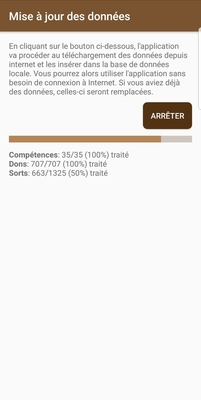
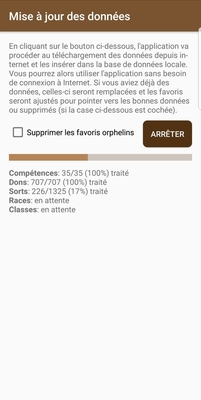
Update screenshots for version 2.0

Changed region(s): [[0.0299, 0.09, 0.9851, 0.54]]

diff --git a/docs/user/README.md b/docs/user/README.md
@@ -26,9 +26,10 @@ navigation latérale permettra d'accéder aux différentes rubriques (compétenc
 
 * Cliquer sur une rubrique pour obtenir la liste des éléments correspondants
 * Cliquer sur un élément pour obtenir sa description
-  * Le bouton _plus/moins_ (en bas à droite) permet d'afficher les détails (attributs/métadonnées)
-  * Le bouton _étoile_ (en haut à droite) permet de mettre l'élément dans la liste des favoris
-  * Le bouton _lien_ (en bas à gauche), visible uniquement en mode "détails" ouvre un navigateur vers la fiche [pathfinder-fr.org](https://www.pathfinder-fr.org) correspondante.
+  * Les détails (métadonnées) sont affichés par défaut mais il est possible de les désactiver dans les préférence de l'application.
+  * Le bouton _lien_ (barre d'action) ouvre un navigateur vers la fiche [pathfinder-fr.org](https://www.pathfinder-fr.org) correspondante et permet d'ainsi accéder à toute l'information.
+  * Le bouton _étoile_ (barre d'action) permet d'ajouter ou retirer l'élément de vos favoris
+  
 
 ![Écran d'accueil](../images/01-welcome_small.jpg)
 ![Navigation latérale](../images/03-navigation_small.jpg)
@@ -63,5 +64,7 @@ navigation latérale permettra d'accéder aux différentes rubriques (compétenc
   
   L'application offre des configurations et paramètres selon les besoins de l'utilisateur.
   
+  * **Général | Afficher l'avertissement**: permet de désactiver l'avertissement (_disclaimer/copyright_) au bas de la page d'accueil.
   * **Général | Nom long dans les listes**: affiche un nom long dans les listes. Exemple: affiche le niveau du sort directement dans la liste. 
   * **Général | Détail des compétences, dons, sorts**: affiche le mode détaillé par défaut (voir ci-dessus). Évite de devoir cliquer systématiquement sur le bouton _plus_ pour voir les métadonnées.
+  * **Sources de données**: permet d'activer/désactiver les sources de données avec lesquelles vous jouez. Par exemple, désactiver "Art de la magie" permet de masquer tous les sorts qui proviennent de cette extension.
